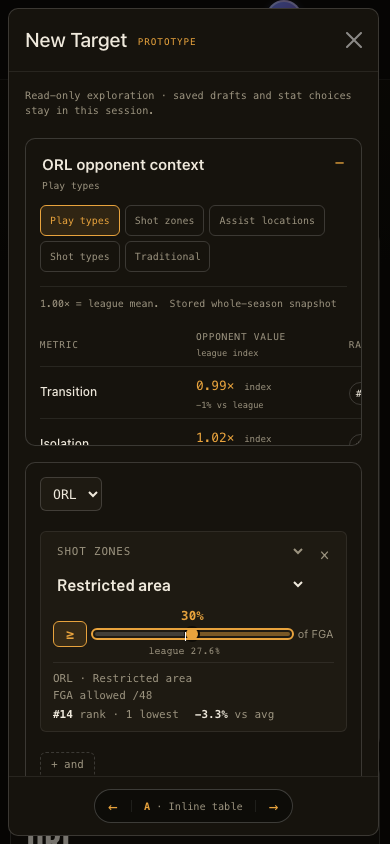
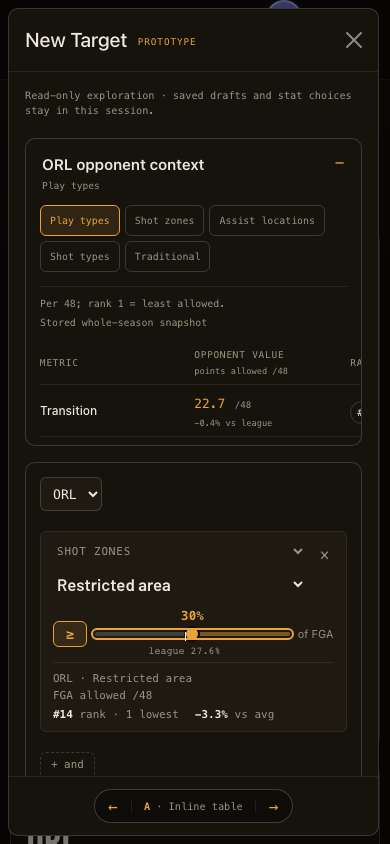
Use matching points allowed for play-type context

diff --git a/src/targets/TeamContextPrototype.js b/src/targets/TeamContextPrototype.js
@@ -56,9 +56,9 @@ const TEAM_CODES = {
 const CATEGORY_CONFIG = {
   Playtypes: {
     label: 'Play types',
-    description: 'Points per possession vs league mean',
-    unit: 'league index',
-    note: '1.00× = league mean.',
+    description: 'Opponent points by play type',
+    unit: 'points allowed /48',
+    note: 'Per 48; rank 1 = least allowed.',
     rows: [
       ['Transition', 'Transition', 'play_types', 'Transition'],
       ['Isolation', 'Isolation', 'play_types', 'Isolation'],
@@ -233,19 +233,19 @@ export const statRowsFor = (category, payload) => {
 };
 
 export const formatValue = (category, row) => {
-  if (category === 'Playtypes' || category === 'Assists') return `${formatNumber(row.value, 2)}×`;
+  if (category === 'Assists') return `${formatNumber(row.value, 2)}×`;
   if (row.rawKey.endsWith('_PCT')) return formatPercent(row.value);
   return formatNumber(row.value, 1);
 };
 
 export const unitForRow = (category, row) => {
-  if (category === 'Playtypes' || category === 'Assists') return 'index';
+  if (category === 'Assists') return 'index';
   if (row.rawKey.endsWith('_PCT')) return '%';
   return row.unit || '/48';
 };
 
 export const formatLeagueComparison = (category, row) =>
-  category === 'Playtypes' || category === 'Assists'
+  category === 'Assists'
     ? formatSignedPercent((row.value - 1) * 100)
     : formatSignedPercent(row.vsAverage);
 
@@ -303,7 +303,10 @@ export function useTeamContextRead() {
     setStats([]);
     setStatsState('loading');
     setStatsError(null);
-    const params = { category, team: selectedTeam };
+    const params = {
+      category: category === 'Playtypes' ? 'Playtype Points' : category,
+      team: selectedTeam,
+    };
     apiClient
       .get(getApiUrl('TEAM_STATS'), { params, signal: controller.signal })
       .then((response) => {
@@ -1059,10 +1062,6 @@ export const qualifierVolumeRow = (qualifier, profile, leagueProfiles) => {
     };
   }
   const data = profile?.[0];
-  if (base === 'play_types') {
-    // The current profile endpoint publishes PPP only. Never substitute it for possessions.
-    return null;
-  }
   const key = base === 'shot_zones' ? `${sliceKey}_OPP_FGA` : sliceKey;
   if (!Number.isFinite(data?.[key])) return null;
   return {
@@ -1075,7 +1074,7 @@ export const qualifierVolumeRow = (qualifier, profile, leagueProfiles) => {
 // Inline evidence follows the player slice, independently of the browsing panel.
 export function QualifierOpponentContext({ team, teams, opponent, qualifier, teamsLoading }) {
   const category = {
-    play_types: 'Playtypes',
+    play_types: 'Playtype Points',
     shot_zones: 'Zone Shooting',
     assist_locations: 'Assists',
     shot_types: 'Shooting Type',
@@ -1083,7 +1082,7 @@ export function QualifierOpponentContext({ team, teams, opponent, qualifier, tea
   const [profiles, setProfiles] = useState(null);
   const [failed, setFailed] = useState(false);
   useEffect(() => {
-    if (!team || !category || category === 'Playtypes') return undefined;
+    if (!team || !category) return undefined;
     let cancelled = false;
     setProfiles(null);
     setFailed(false);
@@ -1102,7 +1101,7 @@ export function QualifierOpponentContext({ team, teams, opponent, qualifier, tea
   const row = qualifierVolumeRow(qualifier, profiles?.profile, profiles?.league);
   const metric =
     qualifier.base === 'play_types'
-      ? 'Possessions allowed /48'
+      ? 'Points allowed /48'
       : qualifier.base === 'assist_locations'
         ? 'Assists allowed'
         : 'FGA allowed /48';
@@ -1123,11 +1122,9 @@ export function QualifierOpponentContext({ team, teams, opponent, qualifier, tea
         </>
       ) : (
         <span>
-          {qualifier.base === 'play_types'
-            ? 'Possession data unavailable'
-            : failed || profiles || (!team && !teamsLoading)
-              ? 'Context unavailable'
-              : 'Loading context…'}
+          {failed || profiles || (!team && !teamsLoading)
+            ? 'Context unavailable'
+            : 'Loading context…'}
         </span>
       )}
     </div>

diff --git a/e2e/fixtures/courtai.js b/e2e/fixtures/courtai.js
@@ -2549,6 +2549,30 @@ export const installApiContract = async (page, overrides = {}) => {
     }
 
     if (url.pathname === '/api/teams/stats') {
+      if (url.searchParams.get('category') === 'Playtype Points') {
+        await route.fulfill({
+          json: Object.fromEntries(
+            [
+              'Transition',
+              'Isolation',
+              'PRBallHandler',
+              'PRRollMan',
+              'Spotup',
+              'Cut',
+              'Handoff',
+              'OffScreen',
+              'Postup',
+              'OffRebound',
+              'Misc',
+            ].flatMap((key) => [
+              [key, 28],
+              [`${key}_RANK`, 12],
+              [`${key}_vs_avg_pct`, -5.1],
+            ]),
+          ),
+        });
+        return;
+      }
       await route.fulfill({ json: traditionalTeamStats });
       return;
     }

diff --git a/docs/prototypes/qualifier-opponent-mapping.md b/docs/prototypes/qualifier-opponent-mapping.md
@@ -1,0 +1,53 @@
+# Qualifier → opponent context mapping
+
+Proposed mapping for all 23 supported qualifier slices, verified against live ORL Team Stats responses and backend `81cefe05915b9f931eaa26937c7fae560551bc98`, `app/services/team_service.py`. Latest user decision implemented in the local prototype: “just do points allowed”.
+
+The simplified Team Stats Playtypes response exposes PPP divided by league-average PPP and a rank. The broader Matchup Defense Sheet already exposes **points allowed and possessions allowed for each play type**, each normalized per 48, with rank and percentage difference from average. They are stored under keys such as `Spotup:PTS` and `Spotup:POSS`, with Season and Last 15 windows. These are not raw season totals.
+
+Final play-type mapping: possession share → **points allowed /48 for that exact play type**. The additive Team Stats category `Playtype Points` exposes the existing PTS column, rank, and percent difference from league average. Both inline cards and the context browser use points. The existing `Playtypes` PPP-index category remains unchanged for other consumers. The local prototype is wired; production needs the additive backend category deployed.
+
+| Player qualifier                  | Opponent measure                     | API category and field(s)                                                |
+| --------------------------------- | ------------------------------------ | ------------------------------------------------------------------------ |
+| Transition possession share       | Transition PPP allowed               | `Playtypes`: `Transition`, `Transition_RANK`                             |
+| Isolation possession share        | Isolation PPP allowed                | `Playtypes`: `Isolation`, `Isolation_RANK`                               |
+| P&R ball handler possession share | P&R ball handler PPP allowed         | `Playtypes`: `PRBallHandler`, `PRBallHandler_RANK`                       |
+| P&R roll man possession share     | P&R roll man PPP allowed             | `Playtypes`: `PRRollMan`, `PRRollMan_RANK`                               |
+| Spot up possession share          | Spot up PPP allowed                  | `Playtypes`: `Spotup`, `Spotup_RANK`                                     |
+| Cut possession share              | Cut PPP allowed                      | `Playtypes`: `Cut`, `Cut_RANK`                                           |
+| Handoff possession share          | Handoff PPP allowed                  | `Playtypes`: `Handoff`, `Handoff_RANK`                                   |
+| Off screen possession share       | Off screen PPP allowed               | `Playtypes`: `OffScreen`, `OffScreen_RANK`                               |
+| Post up possession share          | Post up PPP allowed                  | `Playtypes`: `Postup`, `Postup_RANK`                                     |
+| Putback possession share          | Putback PPP allowed                  | `Playtypes`: `OffRebound`, `OffRebound_RANK`                             |
+| Catch & shoot FGA share           | Catch & shoot attempts allowed /48   | `Shooting Type`: row `ShootingType = Catch and Shoot`, sum `FG2A + FG3A` |
+| Pull-up FGA share                 | Pull-up attempts allowed /48         | `Shooting Type`: row `ShootingType = Pullups`, sum `FG2A + FG3A`         |
+| Inside 10 ft FGA share            | Inside 10 ft attempts allowed /48    | `Shooting Type`: row `ShootingType = Less Than 10 ft`, sum `FG2A + FG3A` |
+| Restricted area FGA share         | Restricted area attempts allowed /48 | `Zone Shooting`: `Restricted Area_OPP_FGA`                               |
+| Paint (non-RA) FGA share          | Paint (non-RA) attempts allowed /48  | `Zone Shooting`: `In The Paint (Non-RA)_OPP_FGA`                         |
+| Mid-range FGA share               | Mid-range attempts allowed /48       | `Zone Shooting`: `Mid-Range_OPP_FGA`                                     |
+| Corner 3 FGA share                | Corner 3 attempts allowed /48        | `Zone Shooting`: `Corner 3_OPP_FGA`                                      |
+| Above-break 3 FGA share           | Above-break 3 attempts allowed /48   | `Zone Shooting`: `Above the Break 3_OPP_FGA`                             |
+| Arc 3 assists share               | Arc 3 assists allowed volume         | `Assists`: `Arc3Assists`, `Arc3Assists_RANK`                             |
+| Corner 3 assists share            | Corner 3 assists allowed volume      | `Assists`: `Corner3Assists`, `Corner3Assists_RANK`                       |
+| At-rim assists share              | At-rim assists allowed volume        | `Assists`: `AtRimAssists`, `AtRimAssists_RANK`                           |
+| Short mid assists share           | Short mid assists allowed volume     | `Assists`: `ShortMidRangeAssists`, `ShortMidRangeAssists_RANK`           |
+| Long mid assists share            | Long mid assists allowed volume      | `Assists`: `LongMidRangeAssists`, `LongMidRangeAssists_RANK`             |
+
+## Rank and percentage difference
+
+- Play-type points: use `Playtype Points` values, `_RANK`, and `_vs_avg_pct` from the Season publication.
+- Optional play-type PPP and assist locations: use the Team Stats API rank; percentage difference is `(index - 1) × 100`. These values are normalized indices, so do not display them as raw PPP or assists per 48.
+- Zones: use the matching FGA field's `_RANK` and `_vs_avg_pct` fields.
+- Shot types: sum two- and three-point attempts for each of all 30 teams, rank those totals, and compare with their league mean. Do not combine component ranks or percentage differences.
+- Rank 1 always means the lowest value allowed. Positive percentage difference means more volume or higher PPP allowed than the league average. It does not mean the same thing as the player-share threshold.
+
+## Verified ORL examples
+
+| Qualifier     | Opponent measure             | Rank | Difference from average |
+| ------------- | ---------------------------- | ---- | ----------------------- |
+| Catch & shoot | 24.7746 FGA allowed /48      | 1    | −11.5%                  |
+| Spot up       | PPP allowed index 1.003679   | 19   | +0.4%                   |
+| Isolation     | PPP allowed index 1.019138   | 21   | +1.9%                   |
+| Corner 3      | 8.4357 FGA allowed /48       | 5    | −11.5%                  |
+| Arc 3 assists | Assist-volume index 0.886842 | 2    | −11.3%                  |
+
+All 23 slices have corresponding backend measures under this mapping; play-type volume needs wiring into the team-based Target context read. `Misc` exists in the Playtypes API but is not an available player qualifier. The Matchup API already represents possession volume, so this is an endpoint exposure gap, not absent source data; failed requests or genuinely incomplete publications still need an honest unavailable state rather than invented numbers.

diff --git a/docs/prototypes/target-composer-context.md b/docs/prototypes/target-composer-context.md
@@ -93,3 +93,15 @@ Verified at frontend `595bb54` plus this change. Authenticated live create A/B a
 Production Team Stats contract inspected at backend reference `81cefe05915b9f931eaa26937c7fae560551bc98` and confirmed against live responses. No API or backend changes made. Play-type volume remains an explicit data limitation of this prototype.
 
 Independent read of all 30 live shooting profiles confirmed ORL Catch & Shoot: 24.7745839637 FGA/48, league mean 28.0072707804, ascending rank 1, relative difference −11.5423128590%. Cross-vendor review confirmed mappings and math; no blocking findings. Complete 30-team coverage is intentional for a league rank, rather than ranking a partial sample. Opponent names come directly from the same team list after tricode matching. The prototype's shared whole-season reads remain fixed until page reload; they are not a production freshness mechanism. The named slice plus FGA label identifies the exact attempt population; the card intentionally displays rank/difference as requested, not another raw-value tile.
+
+## Play types: points allowed only
+
+Final user direction (unedited): “just do points allowed”.
+
+Play-type qualifier cards and the context browser now read `Playtype Points` and show matching points allowed per 48, rank, and percentage difference from average. Shot types keep summed attempts, zones keep FGA, and assist locations keep assist volume. Minutes remains left and backtest results right.
+
+The additive backend category is implemented in `/Users/chrisfu/.t3/worktrees/statsplus-backend/proto-target-playtype-points` from base `48b9ab97712de02b26e18f8145a53b3330198632`; it preserves the original PPP `Playtypes` category. Backend gate: 4,761 tests and 62 subtests passed, branch coverage 84.75%, migrations and demo validation passed. Frontend gate: lint, formatting, 683 unit tests, build, 107 browser tests passed (2 deployment-only skips). Coordination contract gate passed with explicit repository overrides.
+
+Integrated capture uses the actual local backend route/service/publication reader against a PostgreSQL connection forced read-only to the production database. Only `category=Playtype Points` is proxied there; all other frontend API traffic goes directly to production Railway with real authentication. No fixtures or substituted responses. This is local integration evidence, not evidence of deployment: production still needs the additive category. ORL Spotup returned 24.0121 PTS/48, rank 2, −13.0465%; Isolation returned 8.7262 PTS/48, rank 30, +21.0282%.
+
+Backend implementation captured at `8d2cd23626a2db8bbb4db100aebb8464f6c7ad82`. Fresh cross-vendor re-review found no material issues. The new route test was mutation-verified: switching to possessions and switching to PPP each failed, then the source was restored and all 12 route tests passed. The full gate preceded the strengthened test fixture; focused route tests, frontend lint/unit/build, and coordination checks passed afterward. Browser fixture covers all eleven play-type keys. No extra prototype frontend tests added. Owned Vite and read-only local backend stopped; no production deployment performed. [Updated points screenshot](target-composer-context/edit-playtype-points-allowed.png).
